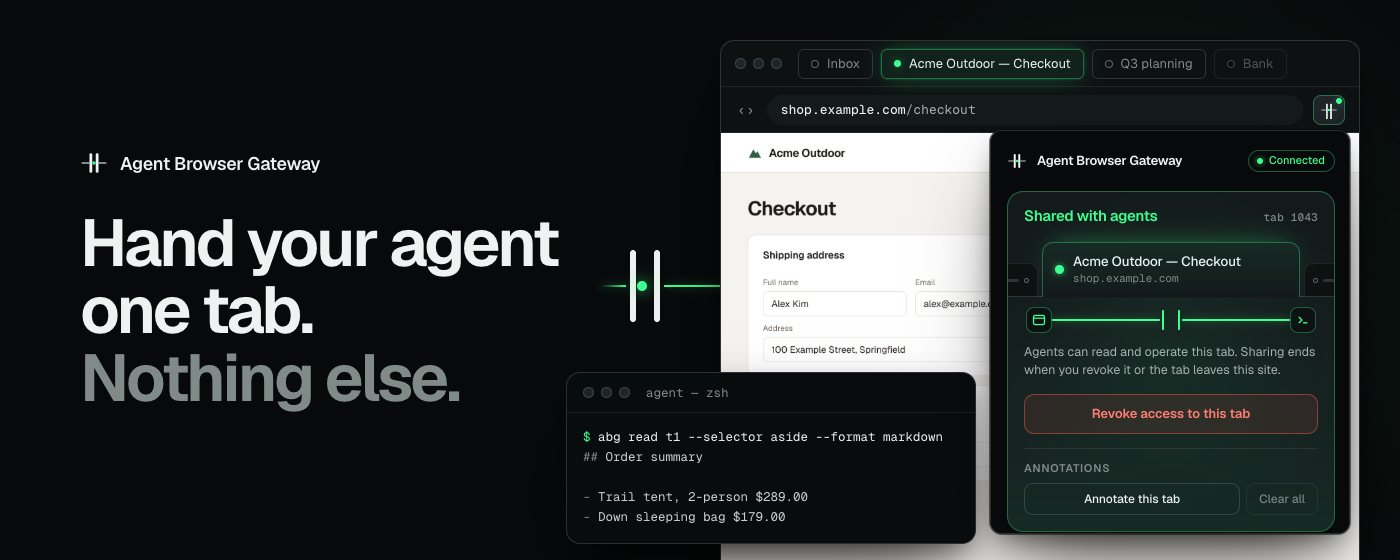
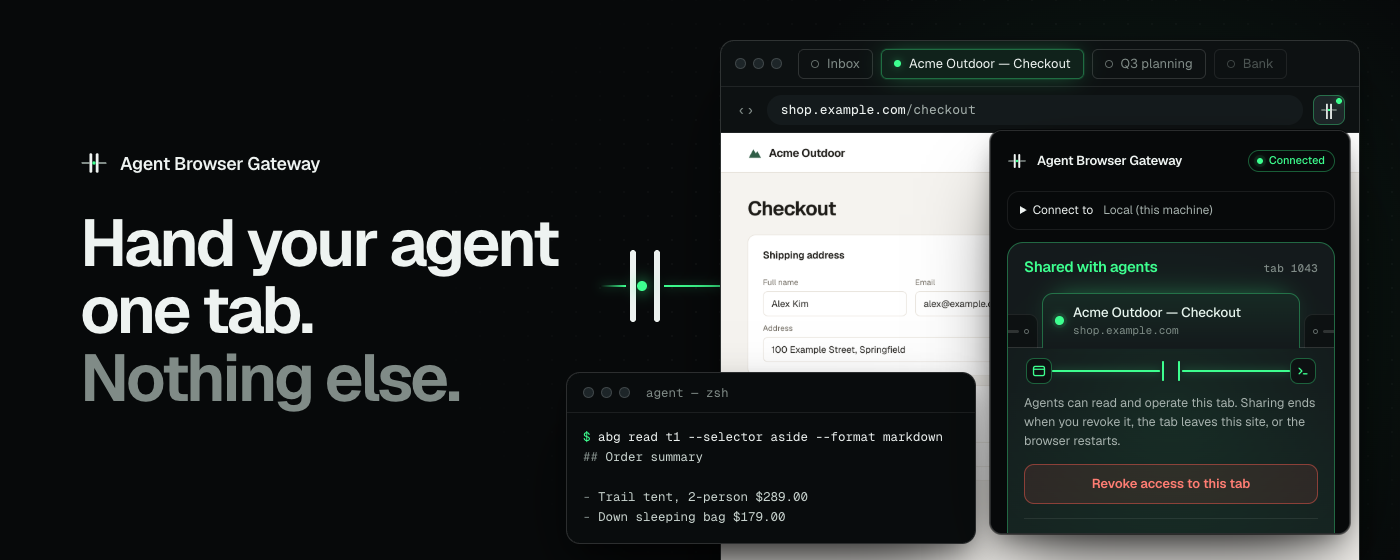
Fix store-asset popup capture and refresh store images
The chrome.* stub predated the domain sharing settings, the cloud
connection state, and the connection-status message, so the popup
capture showed "Cannot read properties of undefined (reading 'rules')".
Fill in the fields the current popup reads and list every command
from the manifest.

The popup is taller since the Connect to panel and the extra shortcut
rows. Crop screenshot 01 after the first row of keys, move the restore
crop in 04, and place the annotation toolbar top-right so the restore
card does not cover it. Regenerate 01, 04, and the marquee tile.

diff --git a/extension/store-assets/src/stage/mock-chrome.js b/extension/store-assets/src/stage/mock-chrome.js
@@ -19,6 +19,9 @@
     operationsRequireApproval: true,
     profileLabel: "",
     gatewayWebSocketUrl: "ws://127.0.0.1:8765/ws",
+    connectionDestination: "local",
+    cloudWebSocketUrl: "",
+    sandboxSharing: { scope: "all", rules: [], httpsOnly: false, ports: [] },
     trustedAutomationEnabled: false,
     bookmarksAccessEnabled: false,
     readingListAccessEnabled: false,
@@ -29,7 +32,16 @@
     type: "state",
     permitted: !is("not-shared"),
     wsConnected: true,
-    activeTab: { incognito: false, incognitoAccessAllowed: true },
+    cloudCodeConfigured: false,
+    cloudConnectionFailed: false,
+    savedCloudConnections: [],
+    activeCloudConnectionId: undefined,
+    cloudLoginPending: false,
+    activeTab: {
+      incognito: false,
+      incognitoAccessAllowed: true,
+      accessMode: is("not-shared") ? undefined : "manual",
+    },
     sharedTabs,
     allTabsAccess: {
       permissionGranted: false,
@@ -43,6 +55,7 @@
     },
     settings,
     annotationState: {
+      available: true,
       enabled: false,
       count: 0,
       restorableCount: is("restore") ? 3 : 0,
@@ -81,6 +94,16 @@
       onMessage: event,
       sendMessage: async (msg) => {
         if (msg.type === "get_state") return state;
+        if (msg.type === "get_connection_status")
+          return {
+            type: "connection_status",
+            phase: "ready",
+            destination: "local",
+            sharedTabCount: sharedTabs.length,
+            wsConnected: true,
+            cloudCodeConfigured: false,
+            cloudConnectionFailed: false,
+          };
         if (msg.type === "get_approval_request")
           return { type: "approval_request", request: approvalRequest };
         return { type: "ok" };
@@ -105,8 +128,13 @@
     },
     tabCapture: { getMediaStreamId: noop },
     commands: {
+      // Mirrors the manifest's suggested keys; commands without one stay unset.
       getAll: async () => [
         { name: "toggle-share-current-tab", shortcut: "⌥⇧S" },
+        { name: "toggle-annotate-current-tab", shortcut: "⌥⇧A" },
+        { name: "switch-annotation-mode", shortcut: "⌥⇧M" },
+        { name: "clear-annotations-current-tab", shortcut: "" },
+        { name: "toggle-annotation-toolbar", shortcut: "" },
         { name: "copy-current-tab-id", shortcut: "⌥⇧C" },
       ],
     },

diff --git a/extension/store-assets/src/screenshot-01.html b/extension/store-assets/src/screenshot-01.html
@@ -7,7 +7,12 @@
     <style>
       .browser { left: 556px; top: 92px; width: 690px; height: 760px; }
       .page { height: 100%; }
-      .popup { right: 48px; top: 186px; width: 360px; height: 538px; }
+      /* Ends after the first row of shortcut keys and fades out instead of cutting a row. */
+      .popup {
+        right: 48px; top: 186px; width: 360px; height: 508px;
+        -webkit-mask-image: linear-gradient(180deg, #000 calc(100% - 10px), transparent);
+        border-bottom-color: transparent;
+      }
       .agent { left: 72px; top: 476px; width: 648px; }
       .agent pre { font-size: 13px; padding: 16px 20px 18px; }
       .popup img { width: 360px; }

diff --git a/extension/store-assets/src/screenshot-04.html b/extension/store-assets/src/screenshot-04.html
@@ -12,7 +12,7 @@
       .agent .out { color: #c9d4cf; }
       .agent .ok { color: var(--signal); }
       .restore { left: 878px; top: 628px; width: 360px; height: 122px; -webkit-mask-image: linear-gradient(180deg, transparent 0, #000 22px); border-top-color: transparent; }
-      .restore img { width: 360px; margin-top: -312px; }
+      .restore img { width: 360px; margin-top: -382px; }
       .after { left: 1000px; top: 606px; }
       .glow { left: 1060px; top: 700px; width: 600px; height: 600px; }
     </style>
